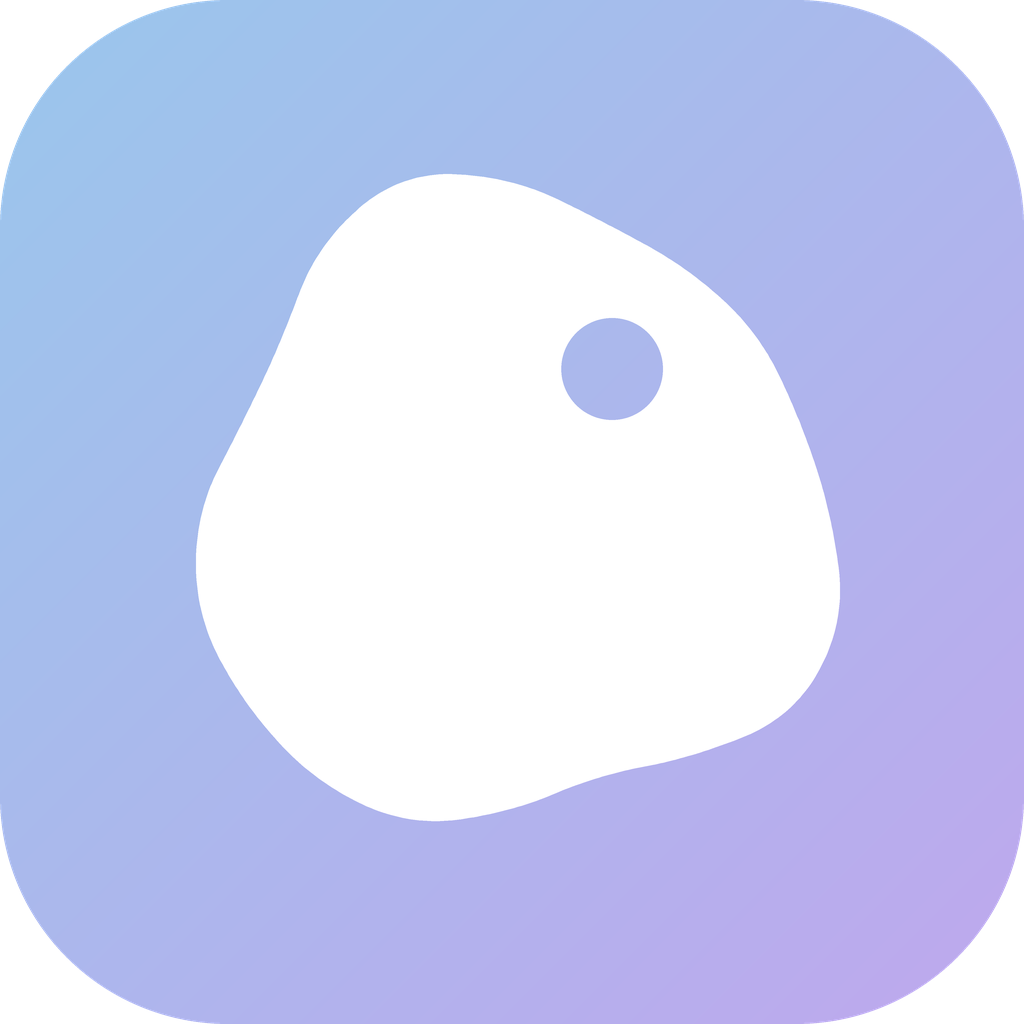
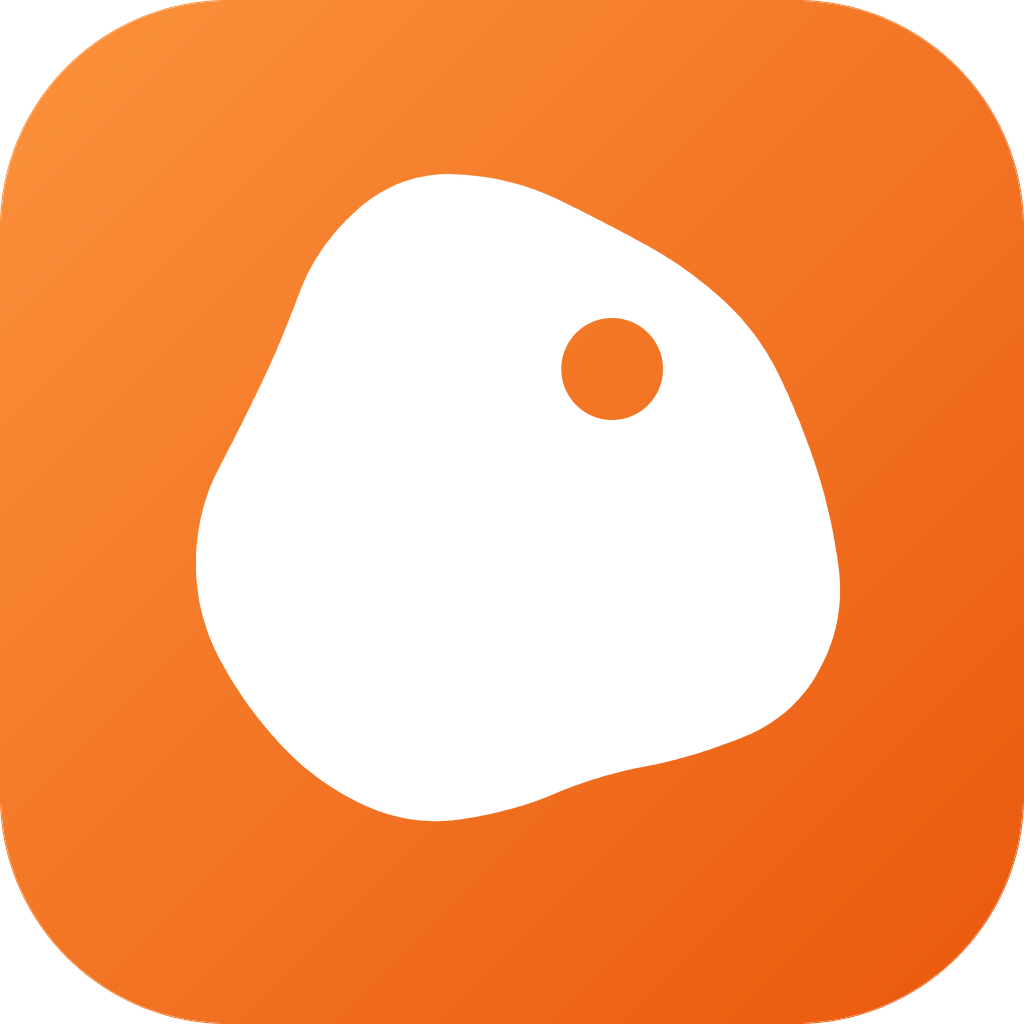
Life VPN 3.1.3: оранжевая иконка

diff --git a/Scripts/release-notes.md b/Scripts/release-notes.md
@@ -1,3 +1,7 @@
+**Что нового в 3.1.3**
+
+- новая иконка программы — оранжевая, в цветах темы Life, как в Android-версии
+
 **Что нового в 3.1.2**
 
 - карточка «Трафик» в «Статистике» показывает, сколько прошло через
